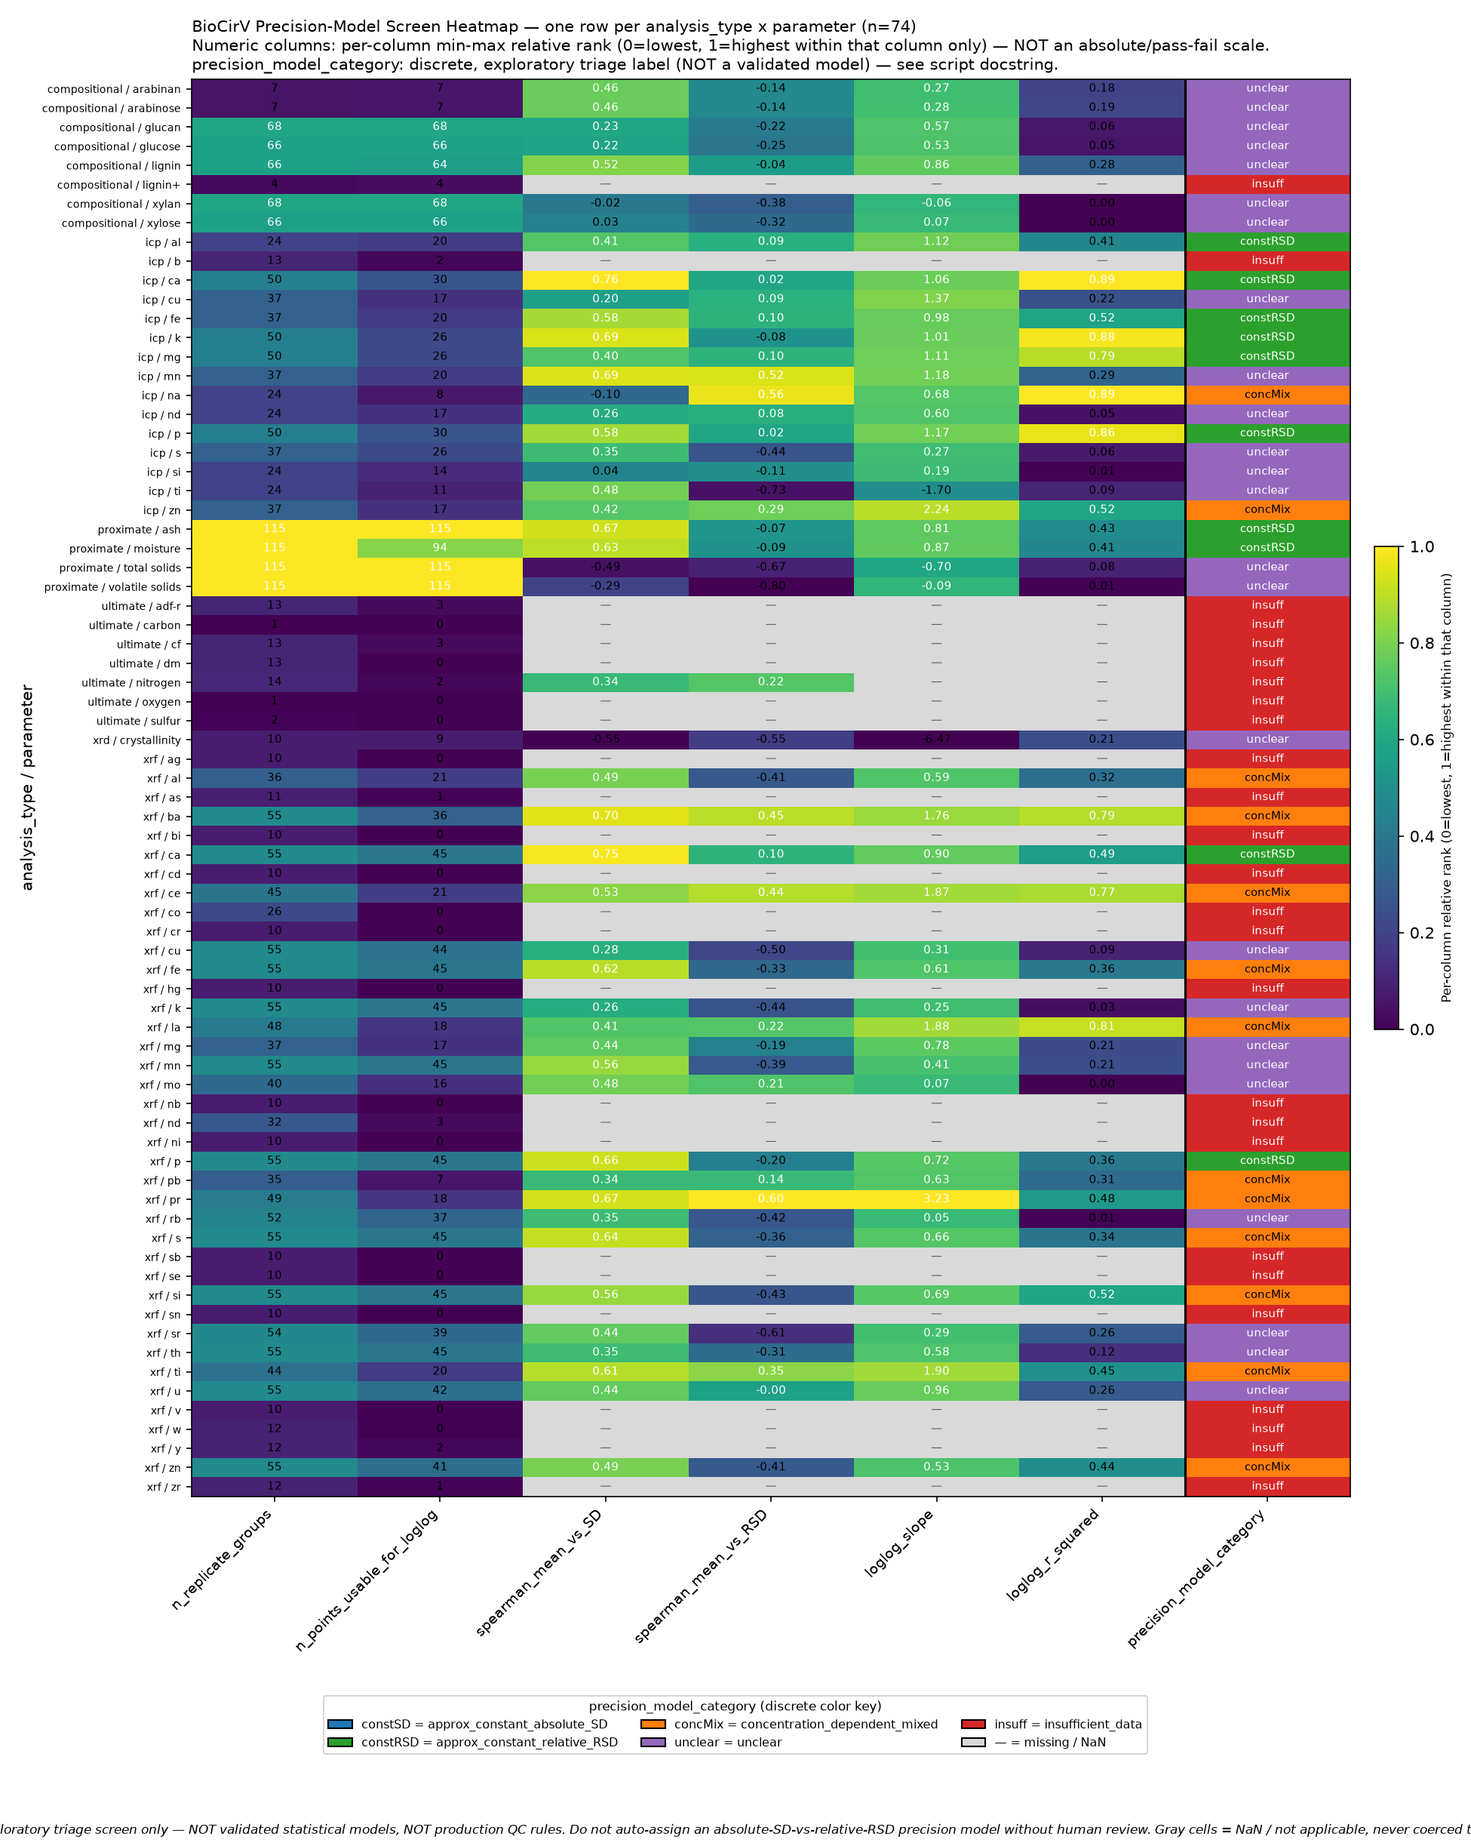
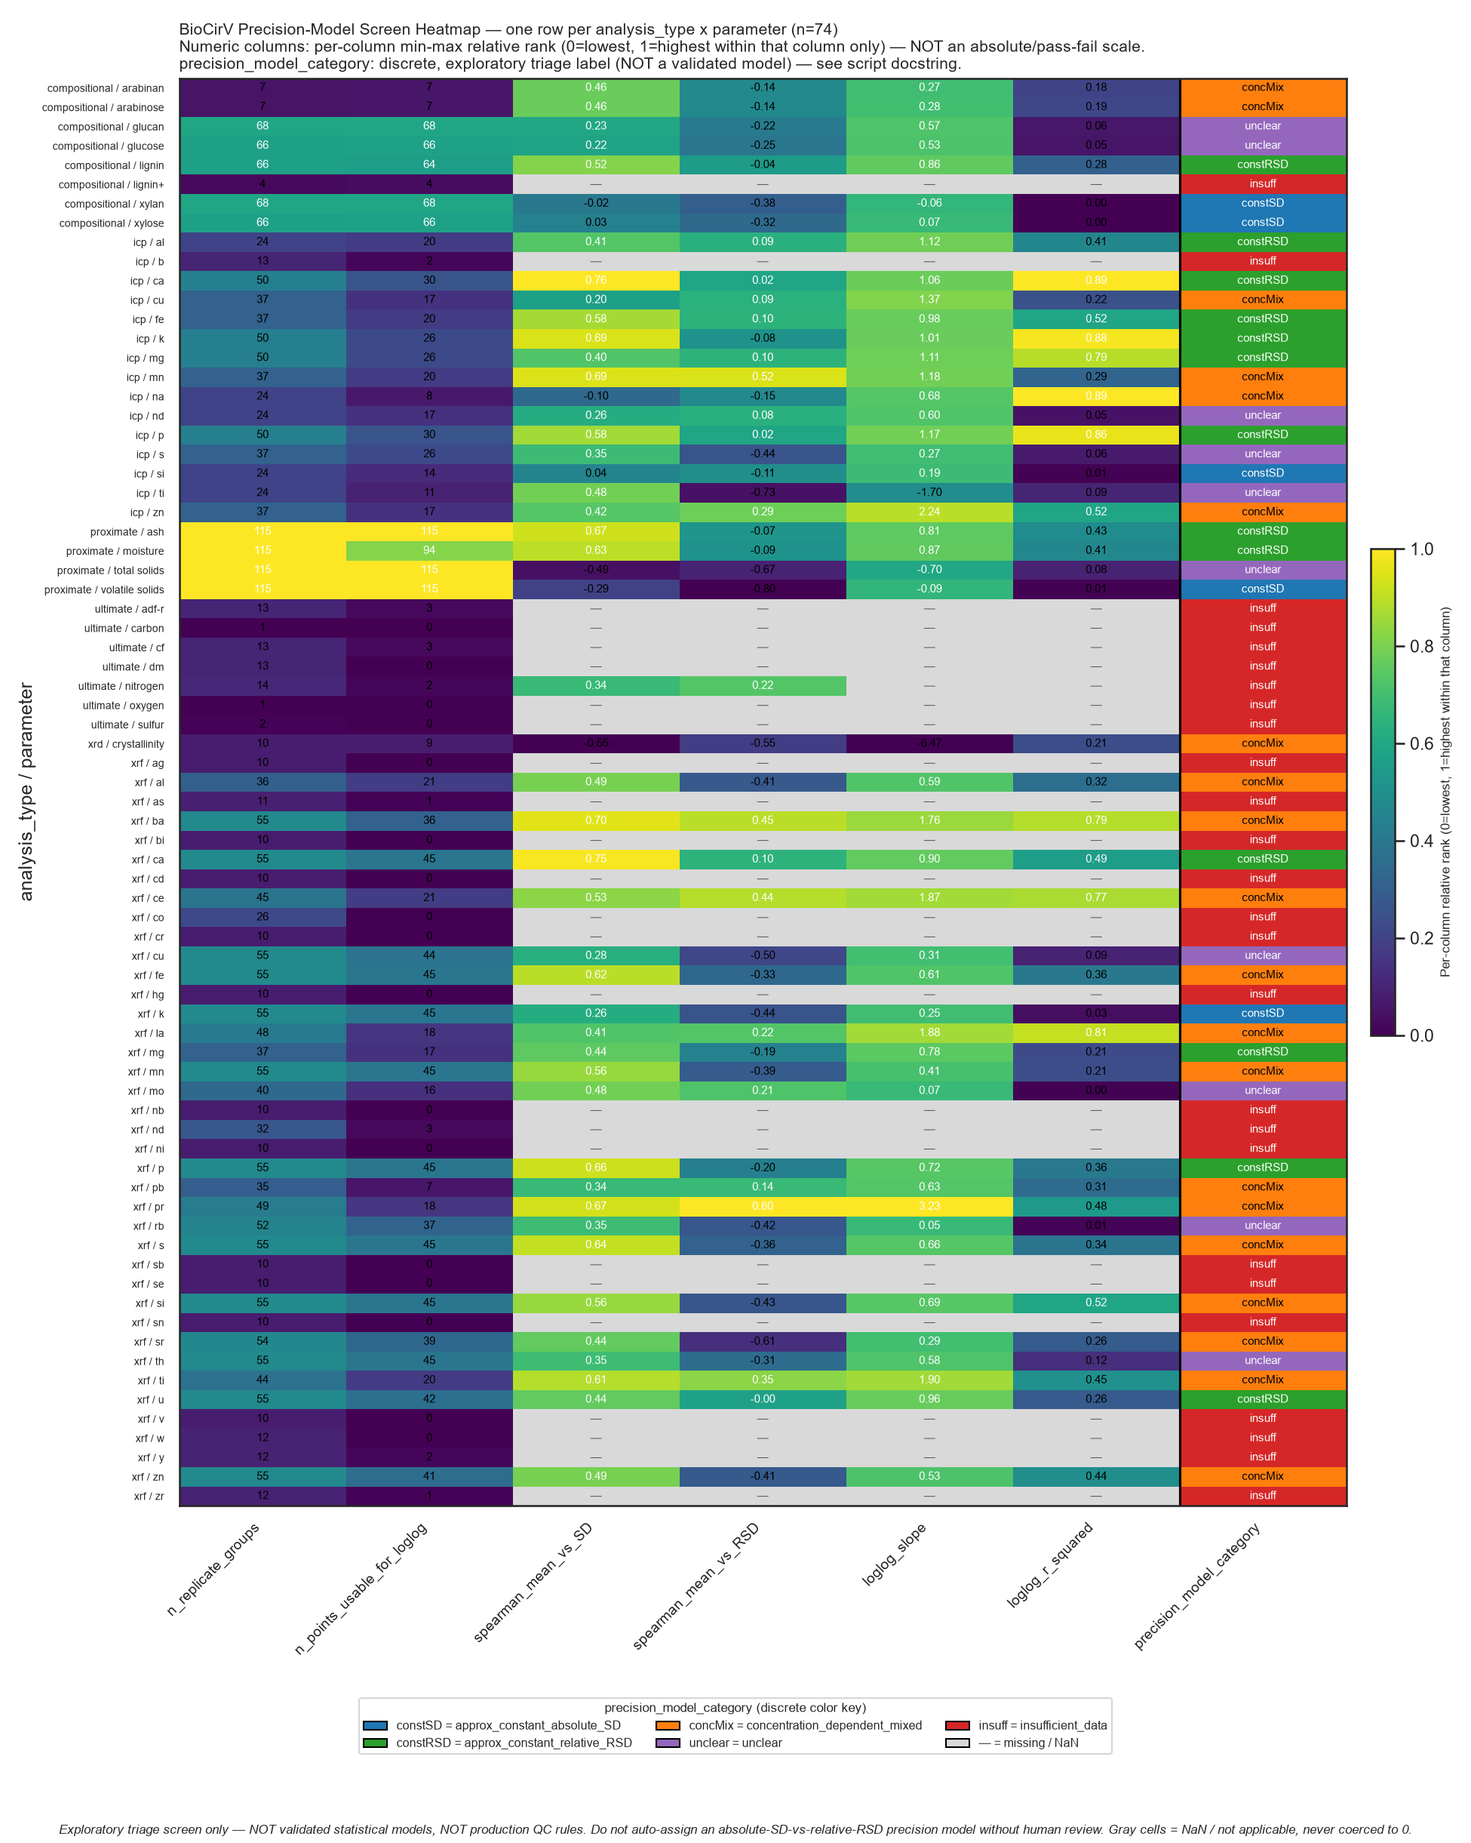
absolute SD constancy algorithm changed, step 1 data error caught and fixed, whole pipeline regenerated

diff --git a/audit/outliers/biocirv_outlier_assessment/06a_build_precision_model_diagnostics.py b/audit/outliers/biocirv_outlier_assessment/06a_build_precision_model_diagnostics.py
@@ -178,10 +178,13 @@ def compute_group_diagnostics(group: pd.DataFrame) -> pd.Series:
 # ---------------------------------------------------------------------------
 # *** EXPLORATORY, NON-VALIDATED THRESHOLDS — TRIAGE ONLY ***
 #
-# The thresholds below (R^2 >= 0.3 as a "reasonably fit-able relationship"
-# cutoff, and abs(slope) or abs(slope - 1) <= 0.3 as a "close to 0/1"
-# tolerance band) are SIMPLE, DOCUMENTED, EXPLORATORY HEURISTICS chosen only
-# for descriptive first-pass triage across 74 combinations. They are:
+# The thresholds below (SLOPE_TOLERANCE / SPEARMAN_TOLERANCE = 0.3 as
+# "close to 0/1" and "small correlation magnitude" tolerance bands, and
+# CONCENTRATION_CLEAR_R_SQUARED_MIN = 0.15 as the "reasonably clear
+# concentration relationship" cutoff used ONLY to split
+# concentration_dependent_mixed from unclear) are SIMPLE, DOCUMENTED,
+# EXPLORATORY HEURISTICS chosen only for descriptive first-pass triage
+# across 74 combinations. They are:
 #   - NOT validated statistical cutoffs (no power analysis, no calibration
 #     against known-good/known-bad precision behavior),
 #   - NOT production QC rules,
@@ -194,38 +197,94 @@ def compute_group_diagnostics(group: pd.DataFrame) -> pd.Series:
 # later" principle — it is explicitly NOT the "early ABSOLUTE vs RELATIVE
 # branch" the handoff warns against building into automated downstream
 # routing.
-R_SQUARED_MIN_FOR_CLEAR_FIT = 0.3
+#
+# DESIGN FIX (post-hoc, see git history / audit notes for full rationale):
+# the two stability categories (approx_constant_absolute_SD,
+# approx_constant_relative_RSD) previously required loglog_r_squared >= 0.3
+# as a blanket gate BEFORE checking the slope at all. This was
+# self-defeating: a genuinely flat/no-trend SD-vs-mean pattern naturally
+# produces BOTH a near-zero slope AND a low R^2 (there is little real
+# variance for a log-log line to explain when there's no real trend), so
+# the old gate made approx_constant_absolute_SD nearly unreachable for real
+# flat data (0 of 74 combinations qualified). The R^2 gate is now used
+# ONLY to decide whether a non-stability relationship counts as
+# "concentration_dependent_mixed" vs "unclear" — the stability categories
+# are instead independently corroborated by the corresponding Spearman
+# rank correlation magnitude (mean vs SD, or mean vs RSD) being small,
+# which is a more direct "no concentration-dependence" check than R^2 of a
+# potentially-noisy log-log line.
 SLOPE_TOLERANCE = 0.3
+SPEARMAN_TOLERANCE = 0.3
+# "Reasonably clear concentration relationship" cutoff for
+# concentration_dependent_mixed vs unclear (Candidate A: log-log R^2
+# threshold). Chosen at 0.15 (rather than the prior 0.3) after reviewing
+# the actual 74-row distribution: at 0.3, 17 of 30 contested combinations
+# fall to "unclear"; at 0.15, only 10 do, better matching the intent that
+# "not a stability pattern, but with a real correlation" should default to
+# "mixed" rather than "unclear" for weak-but-nonzero R^2 cases. Candidates
+# based on Spearman-magnitude or p-value thresholds were also considered
+# (see audit notes) and would materially shift this split — this remains a
+# human-adjustable value, not a statistically derived cutoff.
+CONCENTRATION_CLEAR_R_SQUARED_MIN = 0.15
 
 
 def classify_precision_model(
-    n_points_usable_for_loglog: int, loglog_slope: float, loglog_r_squared: float
+    n_points_usable_for_loglog: int,
+    spearman_mean_vs_SD: float,
+    spearman_mean_vs_SD_pvalue: float,
+    spearman_mean_vs_RSD: float,
+    spearman_mean_vs_RSD_pvalue: float,
+    loglog_slope: float,
+    loglog_r_squared: float,
 ) -> str:
     """Return one descriptive category label. See module-level comment
-    block above for the explicit non-production-cutoff caveat.
+    block above for the explicit non-production-cutoff caveat and the
+    design-fix rationale for why the stability categories no longer gate
+    on loglog_r_squared.
+
+    `spearman_mean_vs_SD_pvalue` / `spearman_mean_vs_RSD_pvalue` are
+    accepted for interface completeness / future candidate definitions of
+    "reasonably clear concentration relationship" (see audit notes) but are
+    not used by the current (Candidate A, R^2-based) implementation.
     """
     if n_points_usable_for_loglog < MIN_N_FOR_LOGLOG:
         return "insufficient_data"
 
-    # loglog_r_squared/slope should be non-NaN whenever n_points_usable_for_loglog
-    # >= MIN_N_FOR_LOGLOG (see compute_group_diagnostics), but guard defensively.
-    if pd.isna(loglog_r_squared) or pd.isna(loglog_slope):
+    # These should all be non-NaN whenever n_points_usable_for_loglog >=
+    # MIN_N_FOR_LOGLOG (see compute_group_diagnostics), but guard
+    # defensively — Spearman NaNs can still occur if that correlation's own
+    # usable-n guard (MIN_N_FOR_CORRELATION) failed independently of the
+    # log-log usable-n guard.
+    required_values = (
+        loglog_slope,
+        loglog_r_squared,
+        spearman_mean_vs_SD,
+        spearman_mean_vs_RSD,
+    )
+    if any(pd.isna(v) for v in required_values):
         return "insufficient_data"
 
-    if loglog_r_squared < R_SQUARED_MIN_FOR_CLEAR_FIT:
-        # Fit itself is weak — no clean log-log relationship, regardless of
-        # what the slope value happens to be.
-        return "unclear"
+    is_approx_constant_absolute_SD = (
+        abs(loglog_slope) <= SLOPE_TOLERANCE
+        and abs(spearman_mean_vs_SD) <= SPEARMAN_TOLERANCE
+    )
+    is_approx_constant_relative_RSD = (
+        abs(loglog_slope - 1.0) <= SLOPE_TOLERANCE
+        and abs(spearman_mean_vs_RSD) <= SPEARMAN_TOLERANCE
+    )
 
-    if abs(loglog_slope) <= SLOPE_TOLERANCE:
+    if is_approx_constant_absolute_SD:
         return "approx_constant_absolute_SD"
-
-    if abs(loglog_slope - 1.0) <= SLOPE_TOLERANCE:
+    if is_approx_constant_relative_RSD:
         return "approx_constant_relative_RSD"
 
-    # A real relationship exists (R^2 clears the bar) but the slope is not
-    # clearly close to 0 or 1.
-    return "concentration_dependent_mixed"
+    # Neither stability pattern holds. If there is a reasonably clear
+    # concentration relationship (Candidate A: log-log R^2 clears the
+    # bar), call it "mixed"; otherwise it's genuinely unclear/noisy.
+    if loglog_r_squared >= CONCENTRATION_CLEAR_R_SQUARED_MIN:
+        return "concentration_dependent_mixed"
+
+    return "unclear"
 
 
 # ---------------------------------------------------------------------------
@@ -239,6 +298,10 @@ def build_precision_model_diagnostics(df: pd.DataFrame) -> pd.DataFrame:
     diagnostics["precision_model_category"] = diagnostics.apply(
         lambda row: classify_precision_model(
             row["n_points_usable_for_loglog"],
+            row["spearman_mean_vs_SD"],
+            row["spearman_mean_vs_SD_pvalue"],
+            row["spearman_mean_vs_RSD"],
+            row["spearman_mean_vs_RSD_pvalue"],
             row["loglog_slope"],
             row["loglog_r_squared"],
         ),

diff --git a/audit/outliers/biocirv_outlier_assessment/01_build_replicate_summary.py b/audit/outliers/biocirv_outlier_assessment/01_build_replicate_summary.py
@@ -145,10 +145,20 @@ def build_replicate_group_summary(df: pd.DataFrame) -> tuple[pd.DataFrame, int]:
             sd = sub["value"].std(ddof=1)
 
         # RSD%: NaN (never inf) when mean is (near-)zero or n_replicates == 1.
+        # Uses abs(mean) in the denominator (bug fix, previously used signed
+        # mean): RSD is conventionally reported as a non-negative dispersion
+        # measure. Using the signed mean produced negative RSD% values for
+        # any replicate group with a negative mean (observed in this
+        # dataset for icp/na, whose measured concentrations can be
+        # negative after background/blank subtraction), which is both
+        # counter to the standard RSD definition and corrupted downstream
+        # comparisons (RSD benchmark flags, Spearman mean-vs-RSD
+        # correlations, log-log precision-model classification) that
+        # implicitly assume RSD >= 0.
         if n_replicates == 1 or abs(mean) < RSD_MEAN_EPSILON:
             rsd_percent = np.nan
         else:
-            rsd_percent = (sd / mean) * 100.0
+            rsd_percent = (sd / abs(mean)) * 100.0
 
         # Metadata consistency check for columns NOT part of the grouping key
         # but expected to be constant per group (resource_id, resource_type,
@@ -278,7 +288,7 @@ def main() -> None:
         raw_values = [float(v) for v in example["values"].split(",")]
         manual_mean = sum(raw_values) / len(raw_values)
         manual_sd = float(np.std(raw_values, ddof=1))
-        manual_rsd = (manual_sd / manual_mean) * 100.0 if abs(manual_mean) >= RSD_MEAN_EPSILON else np.nan
+        manual_rsd = (manual_sd / abs(manual_mean)) * 100.0 if abs(manual_mean) >= RSD_MEAN_EPSILON else np.nan
         print(f"Raw values: {raw_values}")
         print(f"Manually computed mean={manual_mean}, sd={manual_sd}, rsd%={manual_rsd}")
         print(

diff --git a/audit/outliers/biocirv_outlier_assessment/STEP6_FINDINGS.md b/audit/outliers/biocirv_outlier_assessment/STEP6_FINDINGS.md
@@ -1,3 +1,100 @@
+## Addendum — RSD sign-bug fix + `classify_precision_model()` redesign
+
+**Two fixes were applied after this document's original analysis below (see
+git history for `01_build_replicate_summary.py` and
+`06a_build_precision_model_diagnostics.py`):**
+
+1. **`RSD_percent` sign bug fix (Step 1).** `01_build_replicate_summary.py`
+   previously computed `RSD_percent = (sd / mean) * 100.0`, using the
+   *signed* mean. For the 13 `icp/na` replicate groups with a negative
+   `mean` (a legitimate outcome of background/blank subtraction upstream),
+   this produced **negative** RSD% values — contrary to the standard
+   convention that RSD is a non-negative dispersion measure — which
+   corrupted every downstream RSD-based comparison for `icp/na`
+   specifically (RSD benchmark flags, `spearman_mean_vs_RSD` correlation,
+   and any RSD quantile/percentile touching those 13 rows). The fix uses
+   `abs(mean)` in the denominator instead. Only `icp/na` rows were
+   affected (13 of 2712 replicate groups, 0.48%); all other combinations'
+   RSD values were computed from positive means and are numerically
+   unchanged by this fix.
+2. **`classify_precision_model()` redesign (Step 6a).** The prior
+   categorization function gated the stability categories
+   (`approx_constant_absolute_SD`, `approx_constant_relative_RSD`) behind
+   a blanket `loglog_r_squared >= 0.3` check. This was self-defeating: a
+   genuinely flat/no-trend SD-vs-mean pattern naturally produces *both* a
+   near-zero slope *and* a low R² (there's little real variance for a
+   log-log fit to explain when there's no real trend), so the old gate
+   made `approx_constant_absolute_SD` nearly unreachable for real flat
+   data — **0 of 74 combinations** qualified under the old logic (see
+   original §2 below). The redesigned function drops the R² gate for the
+   stability categories entirely and instead corroborates each stability
+   pattern independently via the corresponding Spearman correlation
+   magnitude (`spearman_mean_vs_SD` for absolute-SD, `spearman_mean_vs_RSD`
+   for relative-RSD) being small (`<= 0.3`). The R² threshold is retained,
+   but repurposed and lowered (`0.3` → `0.15`, per audit review of the
+   actual 74-row R² distribution) to distinguish
+   `concentration_dependent_mixed` from `unclear` only.
+
+### Category distribution: before vs after
+
+| Category | Before (RSD bug + old classifier) | After (both fixes applied) |
+|---|---:|---:|
+| `insufficient_data` | 26 | 26 |
+| `unclear` | 25 | 10 |
+| `concentration_dependent_mixed` | 13 | 20 |
+| `approx_constant_relative_RSD` | 10 | 13 |
+| `approx_constant_absolute_SD` | **0** | **5** |
+
+**`approx_constant_absolute_SD` now has 5 real members** —
+`compositional/xylan`, `compositional/xylose`, `icp/si`, `xrf/k`, and
+`proximate/volatile solids` — directly resolving the design flaw this
+document's original §5/§6 flagged (zero qualifying examples, forcing
+`07_selected_diagnostics.py` to pick a non-qualifying `xrf/sr` placeholder;
+see original text below, left unmodified as the historical record of that
+finding). A large share of the old `unclear` bucket (15 of 25 combinations)
+reclassified into either a stability category or
+`concentration_dependent_mixed` — consistent with §5's observation below
+that "the `unclear` / `concentration_dependent_mixed` categories are
+genuine grab-bags" and that the simple log-log heuristic was likely missing
+real structure.
+
+Combination directly affected by the RSD-sign fix: `icp/na` (the only
+combination with any negative-mean replicate groups) stays classified as
+`concentration_dependent_mixed` both before and after the fix (its
+`loglog_slope=0.680`/`loglog_r_squared=0.887` never qualified it for a
+stability category or for `unclear` either way), but its
+`spearman_mean_vs_RSD` value itself changed substantially: **+0.556**
+(p=0.0089, nominally significant) before the fix vs **-0.145** (p=0.529,
+not significant) after — a sign flip and a swing from "significant
+positive correlation" to "no significant correlation," entirely an
+artifact of the RSD-sign bug (13 of `icp/na`'s replicate groups have
+negative means, which previously produced negative `RSD_percent` values
+that distorted the rank correlation) rather than a real change in the
+underlying data. This also materially changed `icp/na`'s `median_RSD` /
+`percent_RSD_gt_10` / `percent_RSD_gt_20` in `method_parameter_summary.csv`
+and `candidate_rule_comparison.csv` (see `STEP8_FINDINGS.md` addendum for
+the exact before/after numbers: `median_RSD` was negative/misleading
+before the fix and is now a proper non-negative **8.32%**, with
+`percent_RSD_gt_20` rising from a smaller pre-fix count to **33.3%**
+post-fix as several previously-negative RSD values flipped sign and
+crossed the 20% magnitude threshold).
+
+**This addendum reflects a real pipeline rerun** (Steps 1, 3, 4, 5, 6a, 6b,
+8 were all regenerated from the corrected scripts) — it is not a
+simulation/preview. `07_selected_diagnostics.py` (the 8-PNG selected-plot
+script) was intentionally **not** rerun in this pass and its
+`SELECTED_COMBINATIONS` list (including the `xrf/sr` non-qualifying
+placeholder discussion in the original §2 below) still reflects the
+pre-fix categorization; whether to refresh that script's selections
+(e.g., swapping the `xrf/sr` non-qualifying placeholder for one of the 5
+newly-qualifying `approx_constant_absolute_SD` combinations) remains an
+open follow-up, not addressed here.
+
+Everything below this line is the **original, unmodified** Step 6 findings
+document, preserved as the historical record of the pre-fix analysis.
+
+---
+
 # Step 6 Findings — Selected Diagnostic Plots
 
 Script: [`07_selected_diagnostics.py`](07_selected_diagnostics.py)

diff --git a/audit/outliers/biocirv_outlier_assessment/STEP8_FINDINGS.md b/audit/outliers/biocirv_outlier_assessment/STEP8_FINDINGS.md
@@ -1,3 +1,57 @@
+## Addendum — rerun after `RSD_percent` sign-bug fix
+
+`01_build_replicate_summary.py`'s `RSD_percent = (sd / mean) * 100.0`
+computation was fixed to `(sd / abs(mean)) * 100.0` (see
+[`STEP6_FINDINGS.md`](STEP6_FINDINGS.md) addendum for full rationale). This
+step (`08_compare_candidate_rules.py`) was rerun end-to-end against the
+corrected `replicate_group_summary.csv`. Only `icp/na`'s 13 negative-mean
+replicate groups are affected; all other combinations are numerically
+unchanged.
+
+### Headline deltas (before → after)
+
+| Metric | Before | After |
+|---|---:|---:|
+| `rsd_gt_10` flagged (all 2712 groups) | 400 | 407 |
+| `rsd_gt_20` flagged (all 2712 groups) | 171 | 177 |
+| `RSD20_only` (3-way overlap) | 134 | 140 |
+| `flagged_by_any` (3-way overlap) | 421 | 427 |
+| `flagged_by_none` (3-way overlap) | 2291 | 2285 |
+| `icp` `n_RSD_gt_20` (by-analysis-type) | 56 | 62 |
+| `icp` `percent_RSD_gt_20` (by-analysis-type) | 15.5% | 17.2% |
+
+Dixon (`dixon_flag_0_05`) and 3×SD (`flag_3xSD`) counts are **unchanged**
+(246 and 51 respectively) — neither of those methods depends on the sign
+of `RSD_percent`, so they are correctly insensitive to this fix.
+
+### `icp/na` in detail
+
+| Metric | Before (sign-bug) | After (fixed) |
+|---|---:|---:|
+| `median_RSD` | negative/misleading (signed mean in denominator) | **8.32%** |
+| `percent_RSD_gt_10` | (distorted by sign) | **42.9%** |
+| `percent_RSD_gt_20` | (distorted by sign) | **33.3%** |
+| `P90_RSD` / `P95_RSD` | (distorted by sign) | **103.1%** / **147.2%** |
+
+All 13 `icp/na` negative-mean replicate groups now report a properly
+non-negative `RSD_percent` (magnitude-based, per the standard RSD
+definition), which is what drove `icp`'s overall `percent_RSD_gt_20` up
+from 15.5% to 17.2% in the by-analysis-type roll-up above — several
+groups' RSD magnitudes were already >20% but were previously being
+reported with a negative sign that the `rsd_gt_20` boolean comparison
+(`RSD_percent > 20`) could never satisfy regardless of magnitude.
+
+This rerun did not change any `flag_3xSD` or `dixon_flag_0_05` values, so
+§3 "Overlap / disagreement" and §5 "Method semantics" interpretations
+below remain valid as originally written; only the specific overlap counts
+in the §3 table (now 140/427/2285 instead of 134/421/2291) and the `icp`
+row of the §4 by-analysis-type table (now 62/17.2% instead of 56/15.5%)
+should be read from the updated numbers above rather than the original
+table text below, which is preserved unmodified as the historical
+pre-fix record.
+
+---
+
 # Step 8 Findings — Candidate-Rule Comparison
 
 Produced by [`08_compare_candidate_rules.py`](08_compare_candidate_rules.py),
